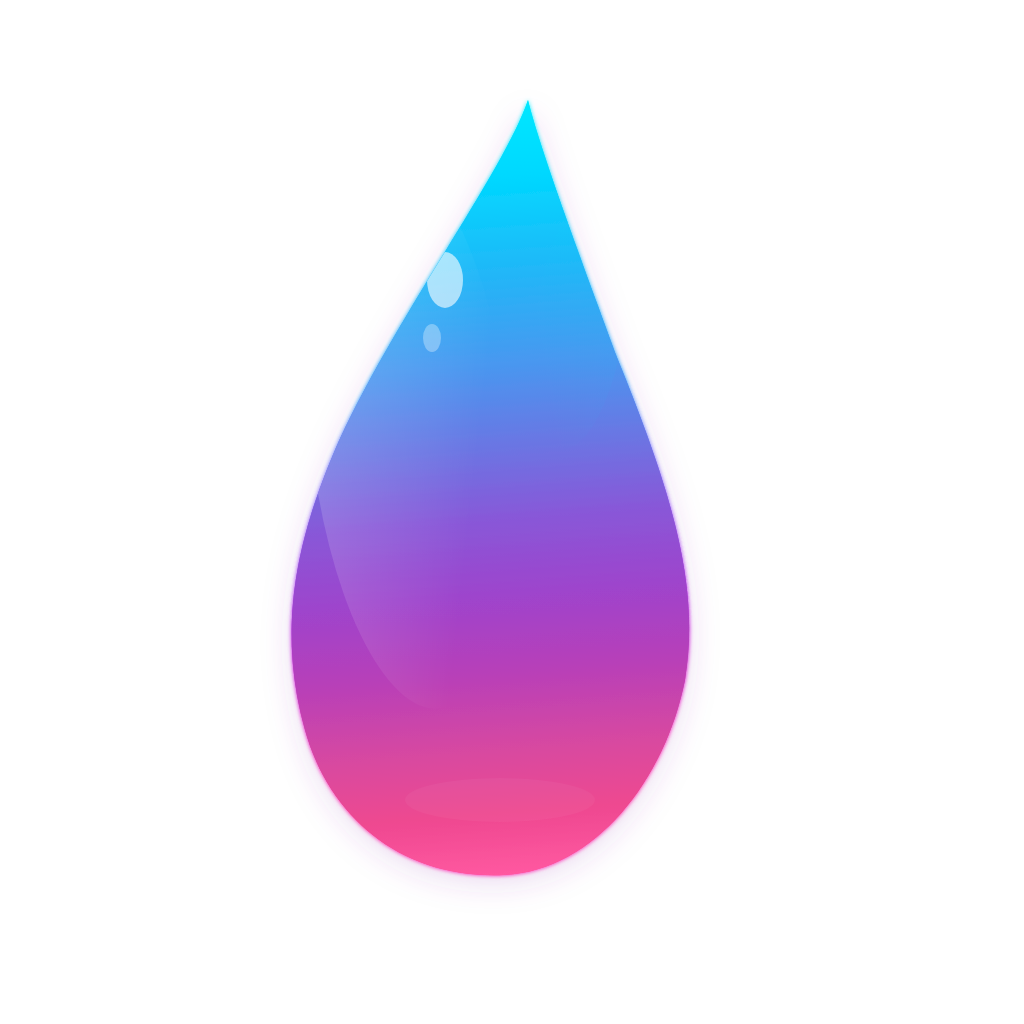
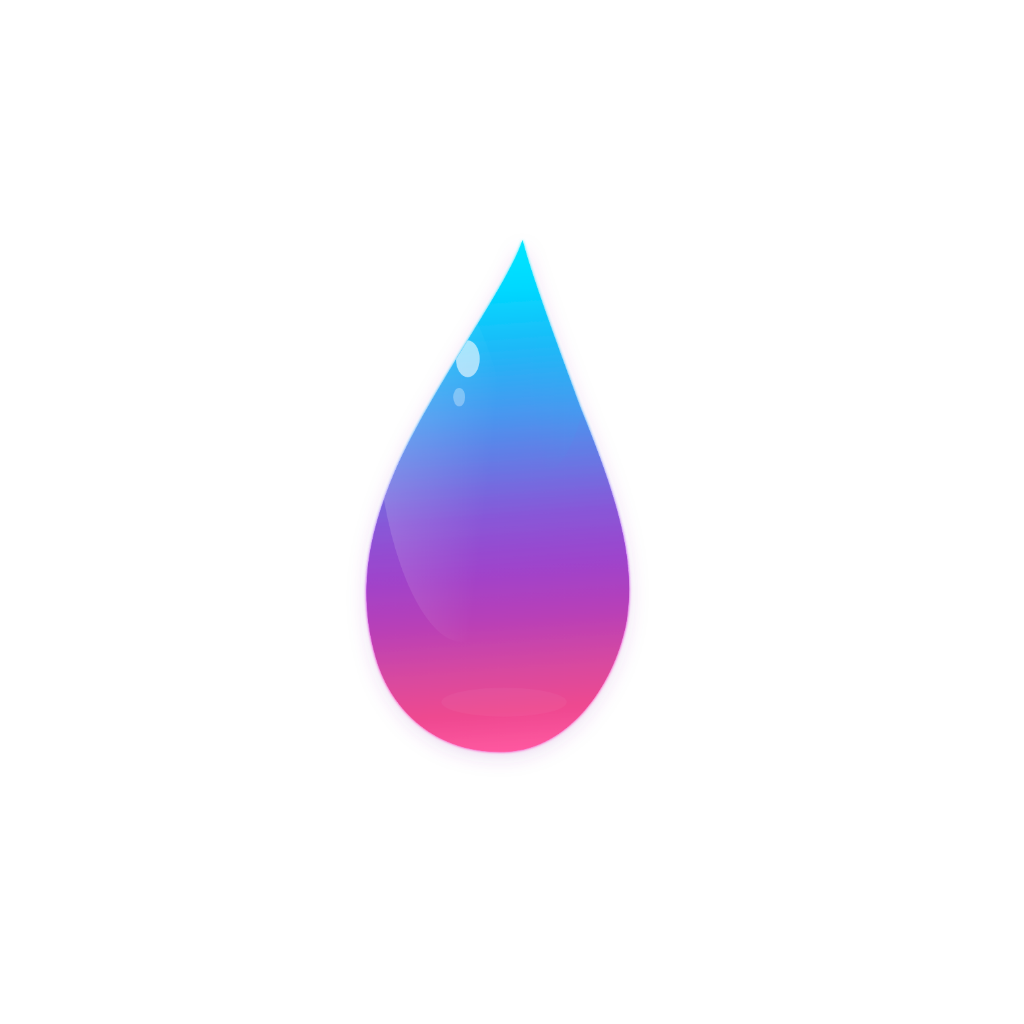
security: add JWT auth to chat API + fix client Authorization header

Changed region(s): [[0.2812, 0.0938, 0.6875, 0.875]]

diff --git a/scripts/generate-adaptive-icon.html b/scripts/generate-adaptive-icon.html
@@ -1,0 +1,223 @@
+<!DOCTYPE html>
+<html>
+<head>
+  <meta charset="UTF-8">
+  <title>OASIS Adaptive Icon Generator</title>
+  <style>
+    body { background: #1a1a2e; display: flex; flex-direction: column; align-items: center; padding: 40px; font-family: sans-serif; color: #fff; gap: 24px; }
+    .preview-grid { display: flex; gap: 28px; align-items: flex-start; flex-wrap: wrap; justify-content: center; }
+    .preview-item { display: flex; flex-direction: column; align-items: center; gap: 8px; font-size: 13px; color: #aaa; }
+    .circle-clip { border-radius: 50%; overflow: hidden; }
+    .rounded-clip { border-radius: 22%; overflow: hidden; }
+    button { padding: 12px 32px; background: linear-gradient(135deg, #9b6dff, #ec4899); border: none; border-radius: 12px; color: #fff; font-size: 15px; font-weight: 700; cursor: pointer; }
+    button:hover { opacity: 0.85; }
+    h2 { margin: 0; font-size: 20px; }
+    .info { background: #2a2645; border-radius: 12px; padding: 16px 24px; font-size: 13px; color: #b8b0cc; line-height: 1.8; max-width: 500px; text-align: center; }
+    .upload-area { border: 2px dashed #6a3fc8; border-radius: 16px; padding: 28px 48px; text-align: center; cursor: pointer; background: #1e1a38; }
+    .upload-area:hover { border-color: #9b6dff; }
+    .slider-wrap { background: #1e1a38; border-radius: 14px; padding: 18px 28px; display: flex; flex-direction: column; gap: 12px; width: 100%; max-width: 480px; box-sizing: border-box; }
+    input[type=range] { flex: 1; accent-color: #9b6dff; cursor: pointer; }
+    #status { font-size: 13px; color: #9b6dff; min-height: 20px; text-align: center; }
+  </style>
+</head>
+<body>
+  <h2>OASIS Adaptive Icon — Foreground Resizer</h2>
+  <p style="color:#7a7090; margin:0; font-size:13px;">元のしずく画像をそのまま、正しいサイズに調整します</p>
+
+  <!-- ファイル選択 -->
+  <div class="upload-area" id="uploadArea">
+    <input type="file" id="fileInput" accept="image/png,image/jpeg,image/webp" style="display:none;">
+    <div style="font-size:36px; margin-bottom:10px;">🖼</div>
+    <div style="font-size:15px; font-weight:600; color:#c0a8ff; margin-bottom:6px;">クリックして元のアイコンを読み込む</div>
+    <div style="font-size:12px; color:#7a6a9a;">android-icon-foreground.png を選択してください</div>
+  </div>
+
+  <div id="status"></div>
+
+  <!-- メインキャンバス（非表示・1024x1024） -->
+  <canvas id="main" width="1024" height="1024" style="display:none;"></canvas>
+
+  <!-- プレビューセクション（読み込み後に表示） -->
+  <div id="previewSection" style="display:none; flex-direction:column; align-items:center; gap:24px; width:100%;">
+
+    <!-- スライダー -->
+    <div class="slider-wrap">
+      <div style="font-size:13px; color:#c0a8ff; font-weight:600;">しずくのサイズ調整</div>
+      <div style="display:flex; align-items:center; gap:12px;">
+        <span style="font-size:12px; color:#666; white-space:nowrap;">小さく</span>
+        <input type="range" id="scaleSlider" min="50" max="80" value="65" step="1">
+        <span style="font-size:12px; color:#666; white-space:nowrap;">大きく</span>
+        <span id="scaleVal" style="font-size:20px; font-weight:700; color:#c0a8ff; min-width:48px; text-align:right;">65%</span>
+      </div>
+      <div id="safeMsg" style="font-size:12px; color:#6dbf7e; text-align:center;">
+        ✅ 安全ゾーン内（66%以内）— どの端末でも全体が表示されます
+      </div>
+    </div>
+
+    <!-- プレビューグリッド -->
+    <div class="preview-grid">
+      <div class="preview-item">
+        <div class="circle-clip" style="width:150px;height:150px;background:#fff;">
+          <canvas id="prev-circle" width="150" height="150"></canvas>
+        </div>
+        <span>円形（白背景）</span>
+      </div>
+      <div class="preview-item">
+        <div class="rounded-clip" style="width:150px;height:150px;background:#fff;">
+          <canvas id="prev-rounded" width="150" height="150"></canvas>
+        </div>
+        <span>角丸（白背景）</span>
+      </div>
+      <div class="preview-item">
+        <div class="circle-clip" style="width:150px;height:150px;background:#0f0d18;">
+          <canvas id="prev-dark" width="150" height="150"></canvas>
+        </div>
+        <span>円形（ダーク）</span>
+      </div>
+      <div class="preview-item">
+        <canvas id="prev-full" width="150" height="150" style="border:1px dashed #555;"></canvas>
+        <span>透明背景</span>
+      </div>
+    </div>
+
+    <!-- 安全ゾーン付き大プレビュー -->
+    <div style="font-size:13px; color:#9080c0; margin-bottom:-16px;">安全ゾーン確認（赤点線の内側にしずくが収まればOK）</div>
+    <div class="preview-grid">
+      <div class="preview-item">
+        <div style="position:relative; width:210px; height:210px;">
+          <div class="circle-clip" style="position:absolute;width:210px;height:210px;background:#fff;">
+            <canvas id="prev-lg-circle" width="210" height="210"></canvas>
+          </div>
+          <!-- 66% safe zone: 210*0.66=138.6px, offset=(210-138.6)/2=35.7px -->
+          <div style="position:absolute;left:36px;top:36px;width:139px;height:139px;
+            border:2px dashed rgba(255,80,80,0.8);border-radius:50%;pointer-events:none;"></div>
+        </div>
+        <span>円形</span>
+      </div>
+      <div class="preview-item">
+        <div style="position:relative; width:210px; height:210px;">
+          <div class="rounded-clip" style="position:absolute;width:210px;height:210px;background:#fff;">
+            <canvas id="prev-lg-rounded" width="210" height="210"></canvas>
+          </div>
+          <div style="position:absolute;left:36px;top:36px;width:139px;height:139px;
+            border:2px dashed rgba(255,80,80,0.8);border-radius:22%;pointer-events:none;"></div>
+        </div>
+        <span>角丸（白）</span>
+      </div>
+      <div class="preview-item">
+        <div style="position:relative; width:210px; height:210px;">
+          <div class="rounded-clip" style="position:absolute;width:210px;height:210px;background:#0f0d18;">
+            <canvas id="prev-lg-dark" width="210" height="210"></canvas>
+          </div>
+          <div style="position:absolute;left:36px;top:36px;width:139px;height:139px;
+            border:2px dashed rgba(255,80,80,0.8);border-radius:22%;pointer-events:none;"></div>
+        </div>
+        <span>角丸（ダーク）</span>
+      </div>
+    </div>
+
+    <button id="dlBtn">📥 android-icon-foreground.png をダウンロード</button>
+  </div>
+
+  <script>
+    const CANVAS_SIZE = 1024;
+    let loadedImage = null;
+    let currentScale = 0.65;
+
+    const mainCanvas = document.getElementById('main');
+    const mainCtx = mainCanvas.getContext('2d');
+
+    // ファイル選択
+    document.getElementById('uploadArea').addEventListener('click', function() {
+      document.getElementById('fileInput').click();
+    });
+
+    document.getElementById('fileInput').addEventListener('change', function(e) {
+      const file = e.target.files[0];
+      if (!file) return;
+      document.getElementById('status').textContent = '読み込み中...';
+
+      const reader = new FileReader();
+      reader.onload = function(ev) {
+        const img = new Image();
+        img.onload = function() {
+          loadedImage = img;
+          redraw();
+          document.getElementById('previewSection').style.display = 'flex';
+          document.getElementById('status').textContent = '✅ 読み込み完了！スライダーでサイズを調整してください';
+        };
+        img.onerror = function() {
+          document.getElementById('status').textContent = '❌ 読み込みに失敗しました';
+        };
+        img.src = ev.target.result;
+      };
+      reader.readAsDataURL(file);
+    });
+
+    // スライダー
+    document.getElementById('scaleSlider').addEventListener('input', function() {
+      currentScale = parseInt(this.value) / 100;
+      document.getElementById('scaleVal').textContent = this.value + '%';
+
+      const safeMsg = document.getElementById('safeMsg');
+      if (currentScale > 0.66) {
+        safeMsg.style.color = '#ff8060';
+        safeMsg.textContent = '⚠ 安全ゾーン超過（' + this.value + '%）— 端末によってはしずくの端が切れます';
+      } else {
+        safeMsg.style.color = '#6dbf7e';
+        safeMsg.textContent = '✅ 安全ゾーン内（' + this.value + '%）— どの端末でも全体が表示されます';
+      }
+
+      if (loadedImage) redraw();
+    });
+
+    // ダウンロード
+    document.getElementById('dlBtn').addEventListener('click', function() {
+      const link = document.createElement('a');
+      link.download = 'android-icon-foreground.png';
+      link.href = mainCanvas.toDataURL('image/png');
+      link.click();
+    });
+
+    function redraw() {
+      const drawSize = Math.round(CANVAS_SIZE * currentScale);
+      const drawOffset = Math.round((CANVAS_SIZE - drawSize) / 2);
+
+      mainCtx.clearRect(0, 0, CANVAS_SIZE, CANVAS_SIZE);
+      mainCtx.drawImage(loadedImage, drawOffset, drawOffset, drawSize, drawSize);
+
+      const previews = [
+        ['prev-circle',    150],
+        ['prev-rounded',   150],
+        ['prev-dark',      150],
+        ['prev-full',      150],
+        ['prev-lg-circle', 210],
+        ['prev-lg-rounded',210],
+        ['prev-lg-dark',   210],
+      ];
+
+      const bgMap = {
+        'prev-circle':     '#ffffff',
+        'prev-rounded':    '#ffffff',
+        'prev-dark':       '#0f0d18',
+        'prev-full':       null,
+        'prev-lg-circle':  '#ffffff',
+        'prev-lg-rounded': '#ffffff',
+        'prev-lg-dark':    '#0f0d18',
+      };
+
+      previews.forEach(([id, size]) => {
+        const c = document.getElementById(id);
+        const ctx = c.getContext('2d');
+        ctx.clearRect(0, 0, size, size);
+        const bg = bgMap[id];
+        if (bg) {
+          ctx.fillStyle = bg;
+          ctx.fillRect(0, 0, size, size);
+        }
+        ctx.drawImage(mainCanvas, 0, 0, size, size);
+      });
+    }
+  </script>
+</body>
+</html>

diff --git a/api/chat.js b/api/chat.js
@@ -440,7 +440,16 @@ ${ctx}
 export default async function handler(req, res) {
   if (req.method !== 'POST') return res.status(405).end();
 
-  const { messages, system, userId } = req.body;
+  // JWT認証（必須）
+  const token = req.headers.authorization?.replace('Bearer ', '');
+  if (!token) return res.status(401).json({ error: 'Unauthorized' });
+  const { data: { user }, error: authError } = await supabase.auth.getUser(token);
+  if (authError || !user) return res.status(401).json({ error: 'Unauthorized' });
+
+  // userIdはJWTから取得（クライアント送信値は使わない）
+  const userId = user.id;
+
+  const { messages, system } = req.body;
 
   if (!messages || !Array.isArray(messages)) {
     return res.status(400).json({ error: 'invalid request' });
@@ -454,18 +463,13 @@ export default async function handler(req, res) {
       return res.status(400).json({ error: 'invalid message format' });
     }
   }
-  // レート制限チェック（IPまたはuserId単位）
-  const rateLimitKey = userId || req.headers['x-forwarded-for'] || 'unknown';
-  if (!checkRateLimit(rateLimitKey, 60, 60000)) {
-    return res.status(429).json({ error: 'Too many requests. Please wait.' });
+  // systemプロンプトの長さ制限
+  if (system && typeof system === 'string' && system.length > 5000) {
+    return res.status(400).json({ error: 'system prompt too long' });
   }
-
-  // userIdがある場合はUUIDフォーマット検証
-  if (userId) {
-    const uuidRegex = /^[0-9a-f]{8}-[0-9a-f]{4}-[0-9a-f]{4}-[0-9a-f]{4}-[0-9a-f]{12}$/i;
-    if (!uuidRegex.test(userId)) {
-      return res.status(400).json({ error: 'invalid userId' });
-    }
+  // レート制限チェック（ユーザー単位）
+  if (!checkRateLimit(userId, 60, 60000)) {
+    return res.status(429).json({ error: 'Too many requests. Please wait.' });
   }
 
   // STEP4: Retrieve relevant memories for context

diff --git a/src/services/messages.js b/src/services/messages.js
@@ -24,15 +24,21 @@ export async function saveMessage(userId, role, content) {
 export async function sendToAI(messages, userId) {
   const recentMessages = messages.slice(-20);
 
+  // JWTトークンを取得してAuthorizationヘッダーに付与
+  const { data: { session } } = await supabase.auth.getSession();
+  if (!session?.access_token) throw new Error('認証エラー');
+
   const res = await fetch(API_URL, {
     method: 'POST',
-    headers: { 'Content-Type': 'application/json' },
+    headers: {
+      'Content-Type': 'application/json',
+      'Authorization': `Bearer ${session.access_token}`,
+    },
     body: JSON.stringify({
       model: 'gemini-2.5-flash',
       max_tokens: 1000,
       system: SYSTEM_PROMPT,
       messages: recentMessages.map(m => ({ role: m.role, content: m.content })),
-      userId,
     }),
   });
 

diff --git a/CLAUDE.md b/CLAUDE.md
@@ -1,0 +1,97 @@
+# OASIS - Claude Code Guidelines
+
+## プロジェクト概要
+AI人格分析×ソーシャルアプリ。React Native + Expo SDK54 + Supabase + Vercel serverless。
+
+## 技術スタック
+- **Frontend**: React Native + Expo SDK54
+- **Navigation**: @react-navigation/native-stack + bottom-tabs
+- **DB**: Supabase (PostgreSQL + pgvector + RLS)
+- **API**: Vercel serverless (api/chat.js, api/ask.js, api/delete-account.js)
+- **AI**: Gemini 2.5 Flash (開発中) → ハイブリッド (リリース時)
+- **認証**: Supabase Auth (JWT)
+
+## ファイル構成ルール
+- `src/screens/` = 全画面コンポーネント（最新版）
+- `src/services/` = Supabaseアクセス層
+- `src/components/` = 再利用コンポーネント
+- `src/navigation/` = ナビゲーション設定
+- `src/i18n/` = 多言語対応 (ja.js / en.js)
+- `api/` = Vercel serverless functions
+- ルート直下の古いファイルは無視すること
+
+## コーディング規約
+
+### スタイル
+- StyleSheetは必ず `function getStyles(C)` 形式で定義する
+- `const C = colors` でテーマカラーを受け取る
+- ハードコードの色は禁止。必ずC.xxxを使う
+- ダークモード対応を常に意識する
+
+### テーマカラー（colors オブジェクト）
+```
+bg: 背景色
+card: カード背景
+bm: ボーダー・区切り線
+t1: メインテキスト
+t2: サブテキスト
+pp: プライマリパープル
+tint: アクセントカラー
+```
+
+### i18n（多言語対応）
+- UIに表示する文字列は必ず `t('key')` を使う
+- ハードコードの日本語文字列は禁止
+- 新しいキーを追加したら ja.js と en.js 両方に追記する
+
+### セキュリティ
+- APIエンドポイントは必ずJWT認証を確認する
+- ユーザーIDはauth.uid()から取得する（クライアント送信値を信用しない）
+- エラーメッセージに内部情報を含めない
+- 入力値は必ずサニタイズする
+
+### Supabase
+- 全テーブルにRLSポリシーが設定済みであることを前提とする
+- クエリは必ずエラーハンドリングを含める
+- upsertを使う場合はonConflictを明示する
+
+### APIレスポンス形式
+```javascript
+// 成功
+res.status(200).json({ result: ... })
+// エラー
+res.status(400).json({ error: 'メッセージ' })
+```
+
+## 画面一覧
+- `AIChatScreen` - AIとのチャット（メイン機能）
+- `MeScreen` - 自分のプロフィール・分析結果
+- `TalkScreen` - フレンドリスト・AIカード
+- `ResonanceScreen` - 共鳴スコア・ユーザー発見
+- `LoginScreen` - ログイン・新規登録・パスワードリセット
+- `DMScreen` - ダイレクトメッセージ
+- `UserProfileScreen` - 他ユーザーのプロフィール
+- `AskAIScreen` - デジタル分身
+
+## DBテーブル（全てRLS設定済み）
+- `users` - 基本ユーザー情報
+- `profiles` - 詳細プロフィール
+- `persona_data` - 人格分析データ（5軸・32タイプ・深層分析）
+- `conversation_summaries` - RAG用会話要約（pgvector）
+- `friends` - フレンド関係
+- `direct_messages` - DM
+- `user_questions` - あなたへの質問
+- `user_reports` - 通報データ
+
+## 開発環境
+- OS: Windows 11
+- テスト端末: Galaxy S25 (Expo Go)
+- ビルド: EAS Build (preview profile → APK)
+- デプロイ: Vercel (git push で自動)
+
+## 絶対にやってはいけないこと
+- ルート直下の古いファイルを編集する
+- RLSを無効化するSQL
+- APIキーをコードにハードコードする
+- console.logに個人情報・会話内容を出力する
+- 認証なしでユーザーデータにアクセスする
